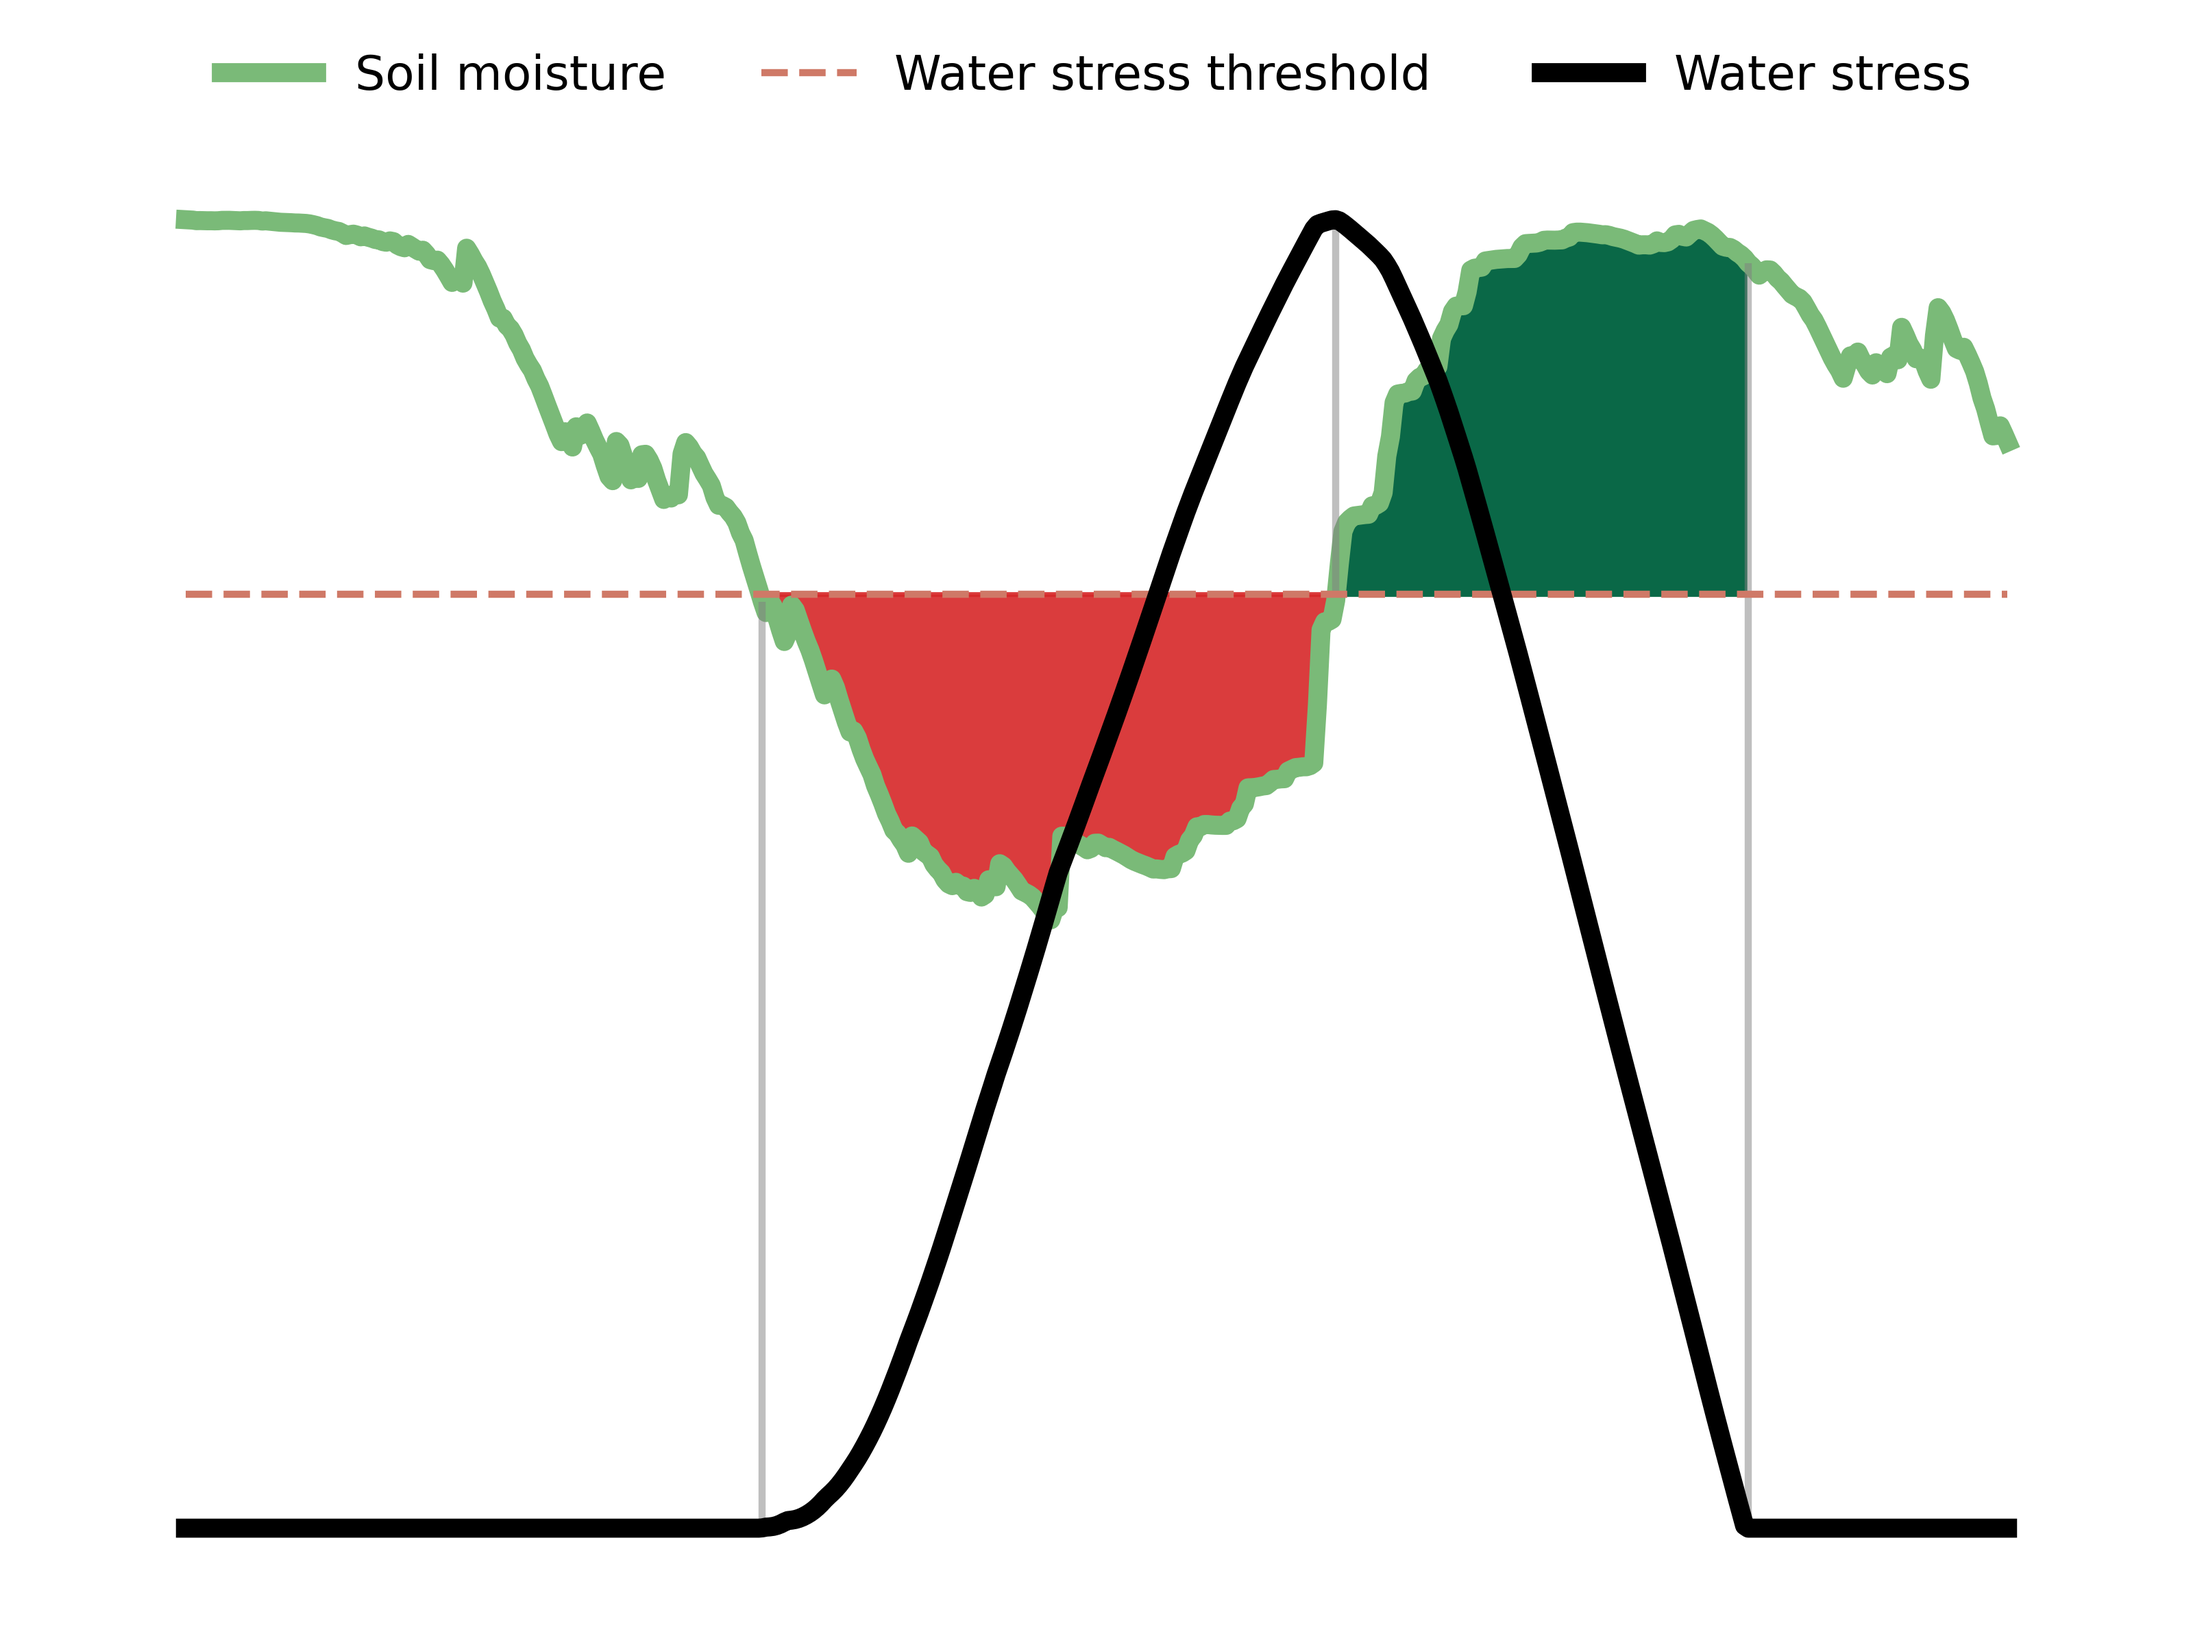
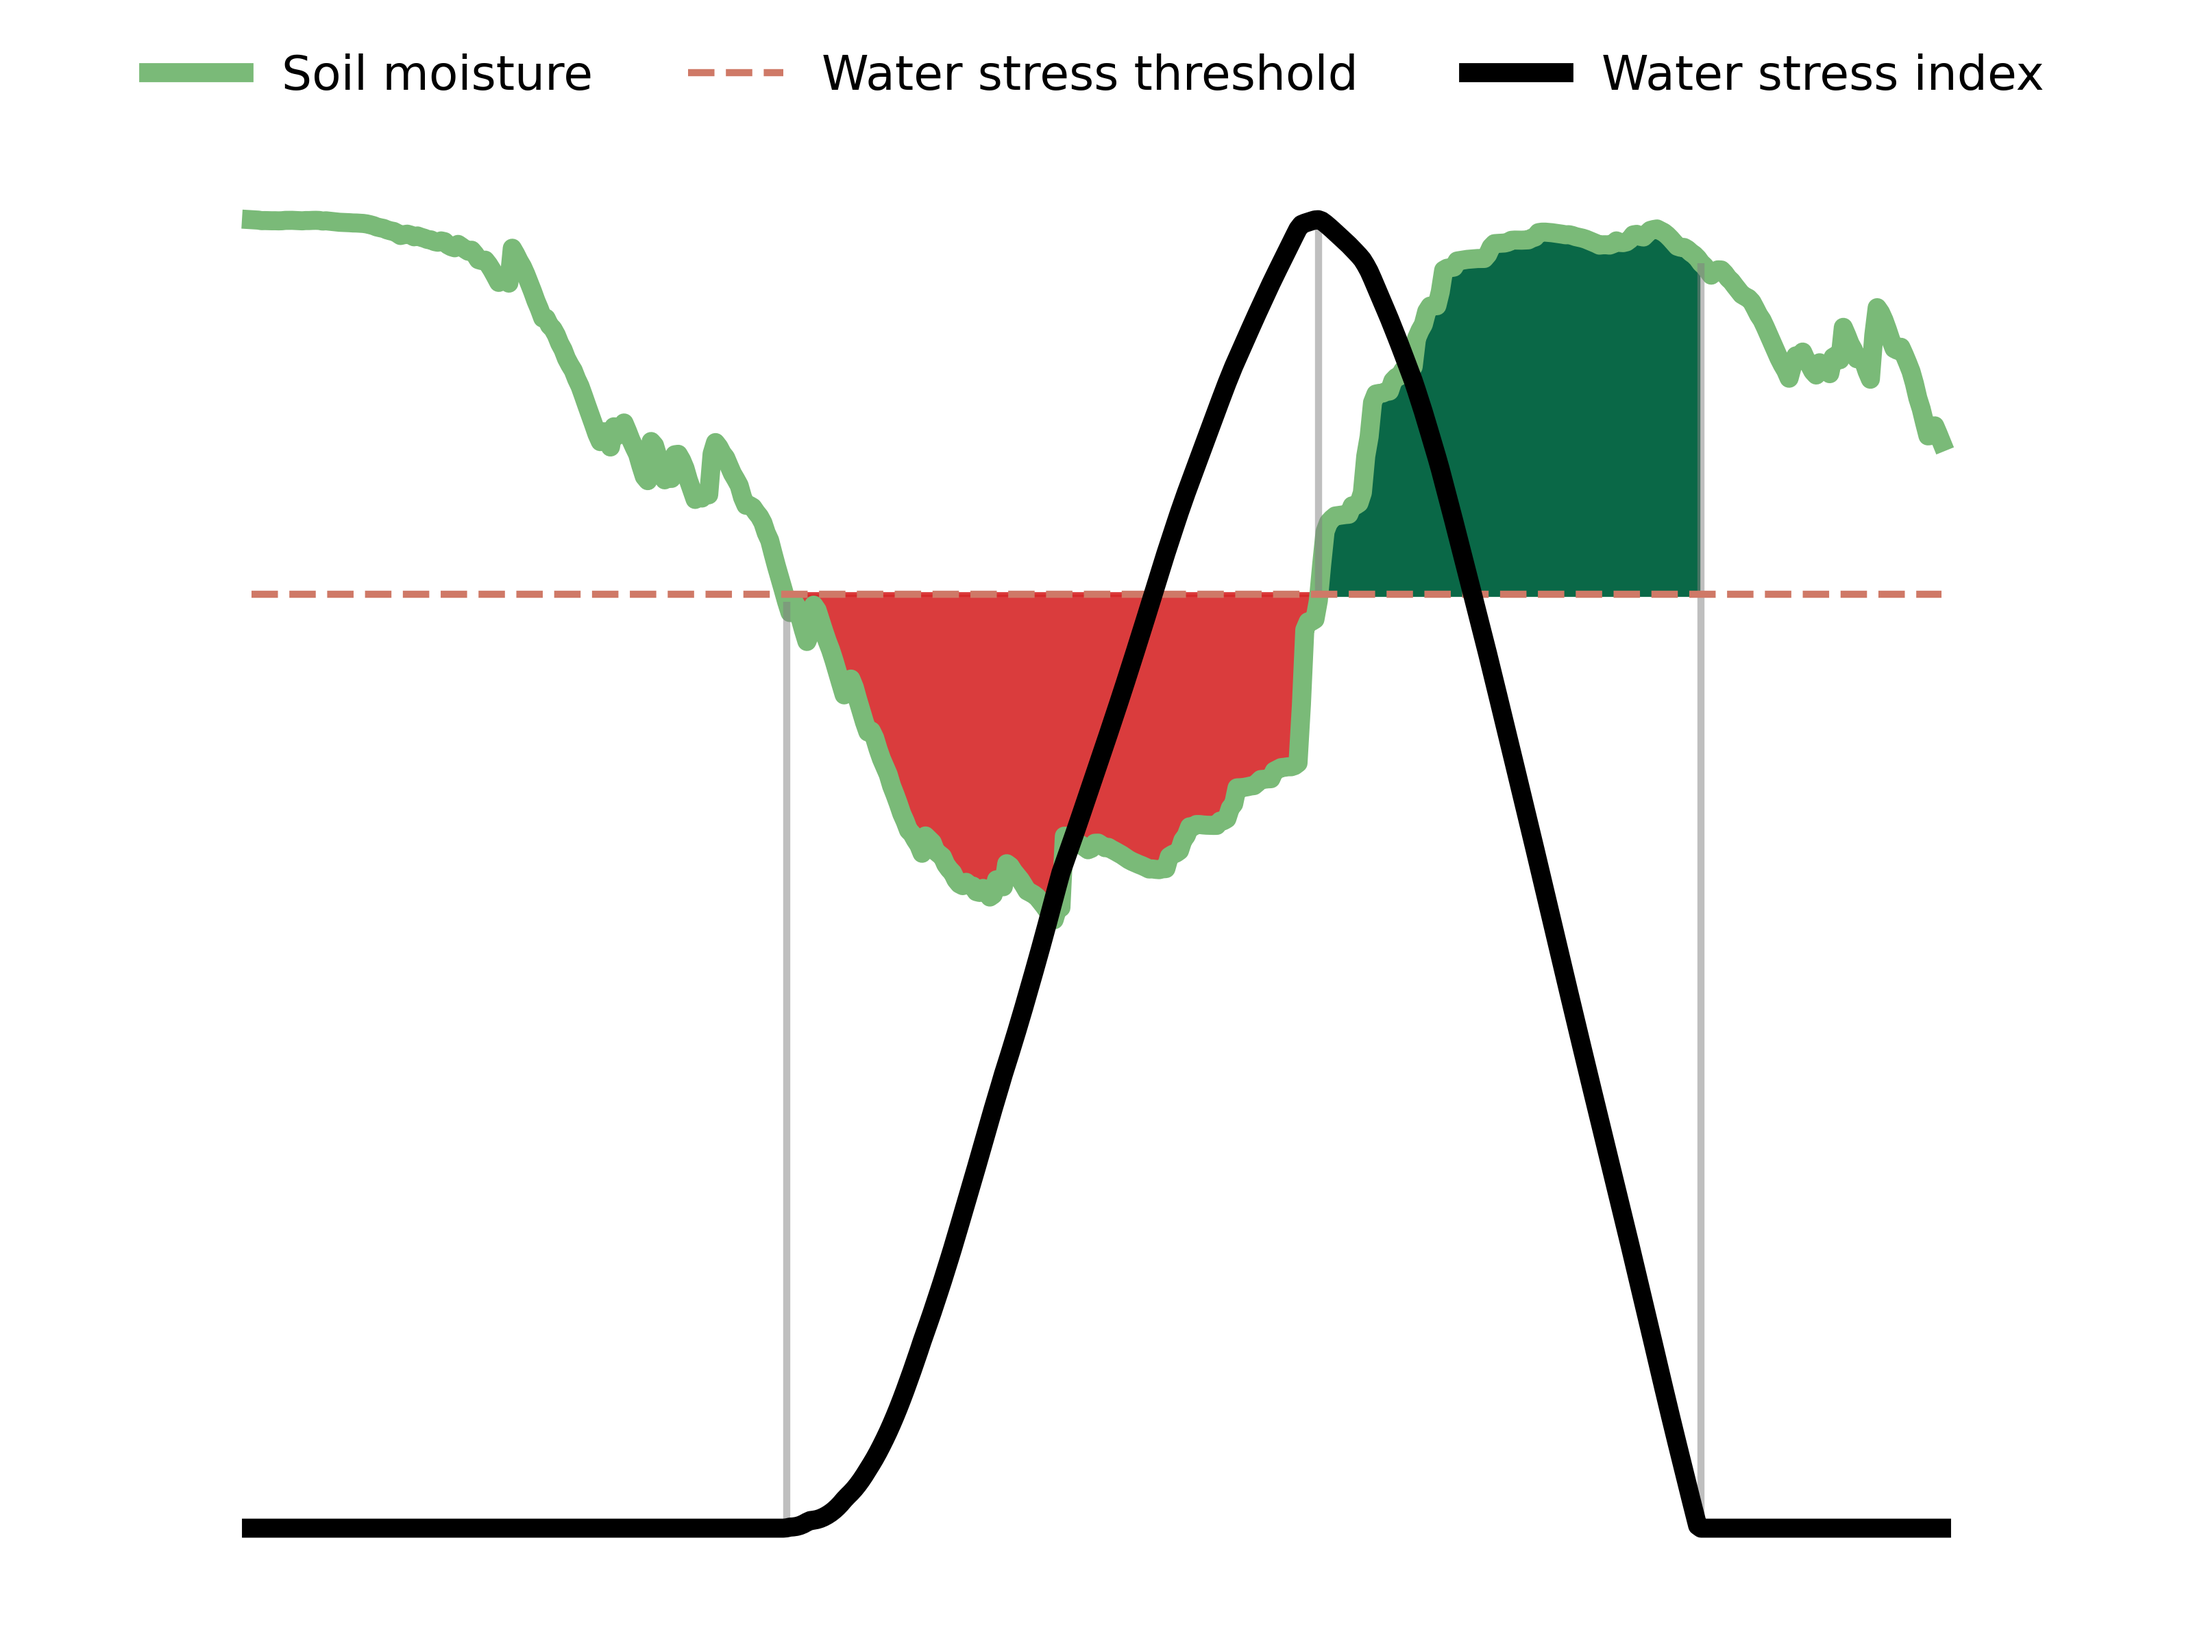
crop_yiel over years

diff --git a/crop_yield/multipleregression.py b/crop_yield/multipleregression.py
@@ -11,7 +11,7 @@ import seaborn as sns
 #what do i want: a pandas dataframe with for each state and crop type: year, yiel, (soil moisture, temperature, precipitation, radiation) average and water stress index
 def with_soil_moisture():
     results_df = pd.DataFrame(columns=['NUTS_ID', 'crop', 'Temperature', 'Precipitation', 'Radiation', 'Soil Moisture'])
-    p_results = pd.DataFrame(columns=['NUTS_ID', 'crop', 'Temperature', 'Precipitation', 'Radiation', 'Soil Moisture'])
+    p_results = pd.DataFrame(columns=['NUTS_ID', 'crop', 'Temperature', 'Precipitation', 'Radiation', 'Soil Moisture', 'Colinearity', 'R_squared'])
     crop = 'C0000'
     state = 'DE4'
     df = pd.DataFrame(columns=['year', 'yield', 'soil moisture', 'temperature', 'precipitation', 'radiation', 'water stress index'])
@@ -66,15 +66,17 @@ def with_soil_moisture():
             summary = model.summary()
             t_values = model.tvalues
             p_values = model.pvalues
+            r_squared = model.rsquared
+            colinearity = model.condition_number
             res = {'NUTS_ID': state, 'crop': crop, 'Temperature': t_values['temperature'], 'Precipitation': t_values['precipitation'], 'Radiation': t_values['radiation'], 'Soil Moisture': t_values['soil moisture']}
-            res_p = {'NUTS_ID': state, 'crop': crop, 'Temperature': p_values['temperature'], 'Precipitation': p_values['precipitation'], 'Radiation': p_values['radiation'], 'Soil Moisture': p_values['soil moisture']}
+            res_p = {'NUTS_ID': state, 'crop': crop, 'Temperature': p_values['temperature'], 'Precipitation': p_values['precipitation'], 'Radiation': p_values['radiation'], 'Soil Moisture': p_values['soil moisture'], 'Colinearity': colinearity, 'R_squared': r_squared}
             new_row_df = pd.DataFrame(res, index=[0])  # Assuming the index should start from 0
             new_row_df_p = pd.DataFrame(res_p, index=[0])
             # Append the new row to the existing DataFrame
             results_df = results_df._append(new_row_df, ignore_index=True)
             p_results = p_results._append(new_row_df_p, ignore_index=True)
 
-
+    print(f'with_soil_moisture {p_results["Colinearity"].mean()}')
     # Group by 'crop' and calculate the mean and standard deviation
     # Group by 'crop' and calculate the mean and standard deviation
     mean_std_per_crop = p_results.groupby('crop').agg({'Temperature': ['mean', 'std'], 
@@ -118,11 +120,12 @@ def with_soil_moisture():
     plt.tight_layout()
     plt.savefig('crop_yield/Figures/t_values_withSM.png', dpi=500)#, transparent=True)
     plt.show()
+    return p_results["Colinearity"].mean()
 
 #what do i want: a pandas dataframe with for each state and crop type: year, yiel, (soil moisture, temperature, precipitation, radiation) average and water stress index
 def without_soil_moisture():
     results_df = pd.DataFrame(columns=['NUTS_ID', 'crop', 'Temperature', 'Precipitation', 'Radiation'])
-    p_results = pd.DataFrame(columns=['NUTS_ID', 'crop', 'Temperature', 'Precipitation', 'Radiation'])
+    p_results = pd.DataFrame(columns=['NUTS_ID', 'crop', 'Temperature', 'Precipitation', 'Radiation', 'Colinearity', 'R_squared'])
     crop = 'C0000'
     state = 'DE4'
     df = pd.DataFrame(columns=['year', 'yield', 'soil moisture', 'temperature', 'precipitation', 'radiation', 'water stress index'])
@@ -176,15 +179,17 @@ def without_soil_moisture():
             summary = model.summary()
             t_values = model.tvalues
             p_values = model.pvalues
+            r_squared = model.rsquared
+            colinearity = model.condition_number
             res = {'NUTS_ID': state, 'crop': crop, 'Temperature': t_values['temperature'], 'Precipitation': t_values['precipitation'], 'Radiation': t_values['radiation']}
-            res_p = {'NUTS_ID': state, 'crop': crop, 'Temperature': p_values['temperature'], 'Precipitation': p_values['precipitation'], 'Radiation': p_values['radiation']}
+            res_p = {'NUTS_ID': state, 'crop': crop, 'Temperature': p_values['temperature'], 'Precipitation': p_values['precipitation'], 'Radiation': p_values['radiation'], 'Colinearity': colinearity, 'R_squared': r_squared}
             new_row_df = pd.DataFrame(res, index=[0])  # Assuming the index should start from 0
             new_row_df_p = pd.DataFrame(res_p, index=[0])
             # Append the new row to the existing DataFrame
             results_df = results_df._append(new_row_df, ignore_index=True)
             p_results = p_results._append(new_row_df_p, ignore_index=True)
 
-
+    print(f'without_soil_moisture {p_results["Colinearity"].mean()}')
     # Group by 'crop' and calculate the mean and standard deviation
     # Group by 'crop' and calculate the mean and standard deviation
     mean_std_per_crop = p_results.groupby('crop').agg({'Temperature': ['mean', 'std'], 
@@ -228,6 +233,7 @@ def without_soil_moisture():
     plt.tight_layout()
     plt.savefig('crop_yield/Figures/t_values_woSM.png', dpi=500)#, transparent=True)
     plt.show()
+    return p_results["Colinearity"].mean()
 
 def correlation():
     results_df = pd.DataFrame(columns=['NUTS_ID', 'crop', 'Temperature', 'Precipitation', 'Radiation', 'Soil Moisture'])
@@ -263,13 +269,17 @@ def correlation():
 
             # Compute the correlation matrix
             correlation_matrix = correlation_matrix + df.corr()
+        
     correlation_matrix = correlation_matrix / len(ds.important_states)/len(ds.crop_types)
+    latex_table = correlation_matrix.to_latex(index=False, float_format="%.2f")
+    with open("correlation_matrix.tex", 'w') as f:
+        f.write(latex_table)
     correlation_matrix_sum = correlation_matrix.abs().sum()
-    mask = np.triu(np.ones_like(correlation_matrix, dtype=bool))
+    #mask = np.triu(np.ones_like(correlation_matrix, dtype=bool))
 
     # Plot the correlation matrix with masked upper triangle
     plt.figure(figsize=(8, 6))
-    sns.heatmap(correlation_matrix, mask=mask, annot=True, cmap='coolwarm', fmt=".2f", vmin=-1, vmax=1)
+    sns.heatmap(correlation_matrix, annot=True, cmap='coolwarm', fmt=".2f", vmin=-1, vmax=1)
     plt.title("Correlation Matrix")
     plt.xlabel("Variables")
     plt.ylabel("Variables")
@@ -280,15 +290,60 @@ def correlation():
 def calculate_deficit():
     yield_data = pd.read_csv('crop_yield/detrended_data.csv')
     print(yield_data)
-    specific_crop_data = yield_data[yield_data['crops'].isin(['C1100'])]
+    specific_crop_data = yield_data[yield_data['crops'].isin(['C0000', 'R1000', 'R2000'])]
 
 # Print the filtered DataFrame
     print(specific_crop_data)
-    print(yield_data.groupby('crops')['2018'].mean())
+    value_18 = specific_crop_data.groupby('crops')['2018'].mean().sum()
+    value_17 = specific_crop_data.groupby('crops')['2017'].mean().sum()
+    print(specific_crop_data.groupby('crops')['2018'].mean().sum())
+    print(specific_crop_data.groupby('crops')['2017'].mean().sum())
+    print(value_18/value_17)
+
+
+def plot_crops():
+    #sns.set_theme()
+    state = 'DE4'
+    yield_data = pd.read_csv('crop_yield/detrended_data.csv')
+    wsi_data = pd.read_csv('crop_yield/averaged/crop_yield_processed/crop_yield_DE_WSI.csv')
+
+
+    crops = [ 'R1000', 'R2000', 'C0000',]
+    colors = ['#0A6847', "#7ABA78", "#F3CA52"]
+    # Filter data for the specified state and crops
+    
+    # Filter data for the specified crops
+    df = yield_data[yield_data['crops'].isin(crops)]
+    
+    # Assuming the columns for years start from the 5th column (index 4)
+    # Adjust the column range if your data is different
+    years = df.columns[4:]
+    print(wsi_data[years].mean())
+
+    # Plot yield for each crop
+    for i, crop_type in enumerate(crops):
+        # Calculate the mean yield for each year across all states for the current crop type
+        crop_data_mean = df[df['crops'] == crop_type].iloc[:, 4:].mean(axis=0)
+        plt.plot(years, crop_data_mean, label=ds.crop_short[crop_type], color=colors[i])
+    plt.plot(years, wsi_data[years].mean()/wsi_data[years].mean().max()*crop_data_mean.max(), label='Water Stress Index', color='red')
+    plt.xlabel('Year')
+    plt.ylabel('Crop Yield [t/ha]')
+    plt.title('Crop Yield Over Years for Each Crop Type')
+    plt.legend(bbox_to_anchor=(0.5, -0.2), loc='center', ncol=4)
+    
+    # Set x ticks to be every second year
+    plt.xticks(years[::2])
+    plt.tight_layout()
+    plt.savefig('crop_yield/Figures/crop_yield_over_years.png', dpi=500, transparent=True)
+    plt.show()
+
 
 
 if __name__ == '__main__':
-    calculate_deficit()
-    with_soil_moisture()
-    without_soil_moisture()
-    correlation()
+    #calculate_deficit()
+    #a = with_soil_moisture()
+    #b = without_soil_moisture()
+    #correlation()
+    plot_crops()
+
+    #print(b/a)

diff --git a/crop_yield/visualisation_waterstress.py b/crop_yield/visualisation_waterstress.py
@@ -108,7 +108,7 @@ plt.vlines(dates[nonzero_to_zero], 0, soil_moisture[nonzero_to_zero], color='gre
 #ax.set_xlim(np.min(soil_moisture), np.max(soil_moisture))
 plt.hlines(water_stress_value, dates[0], dates[-1], linestyles='dashed', label='Water stress threshold ', color= '#CF7967')
 plt.xlabel('')
-plt.plot(dates, water_stress/np.max(water_stress)*np.max(soil_moisture), color='black', label='Water stress', lw=4)
+plt.plot(dates, water_stress/np.max(water_stress)*np.max(soil_moisture), color='black', label='Water stress index', lw=4)
 plt.gca().axes.get_yaxis().set_visible(False)
 plt.gca().xaxis.set_major_formatter(mdates.DateFormatter('%B'))
 plt.legend(bbox_to_anchor=(0.5, 1.1), loc='upper center', ncol=3, framealpha=0)  # Place legend at the top

diff --git a/correlation_matrix.tex b/correlation_matrix.tex
@@ -1,0 +1,10 @@
+\begin{tabular}{rrrr}
+\toprule
+Soil Moisture & Precipitation & Temperature & Radiation \\
+\midrule
+1.00 & 0.87 & -0.67 & -0.77 \\
+0.87 & 1.00 & -0.59 & -0.73 \\
+-0.67 & -0.59 & 1.00 & 0.75 \\
+-0.77 & -0.73 & 0.75 & 1.00 \\
+\bottomrule
+\end{tabular}
